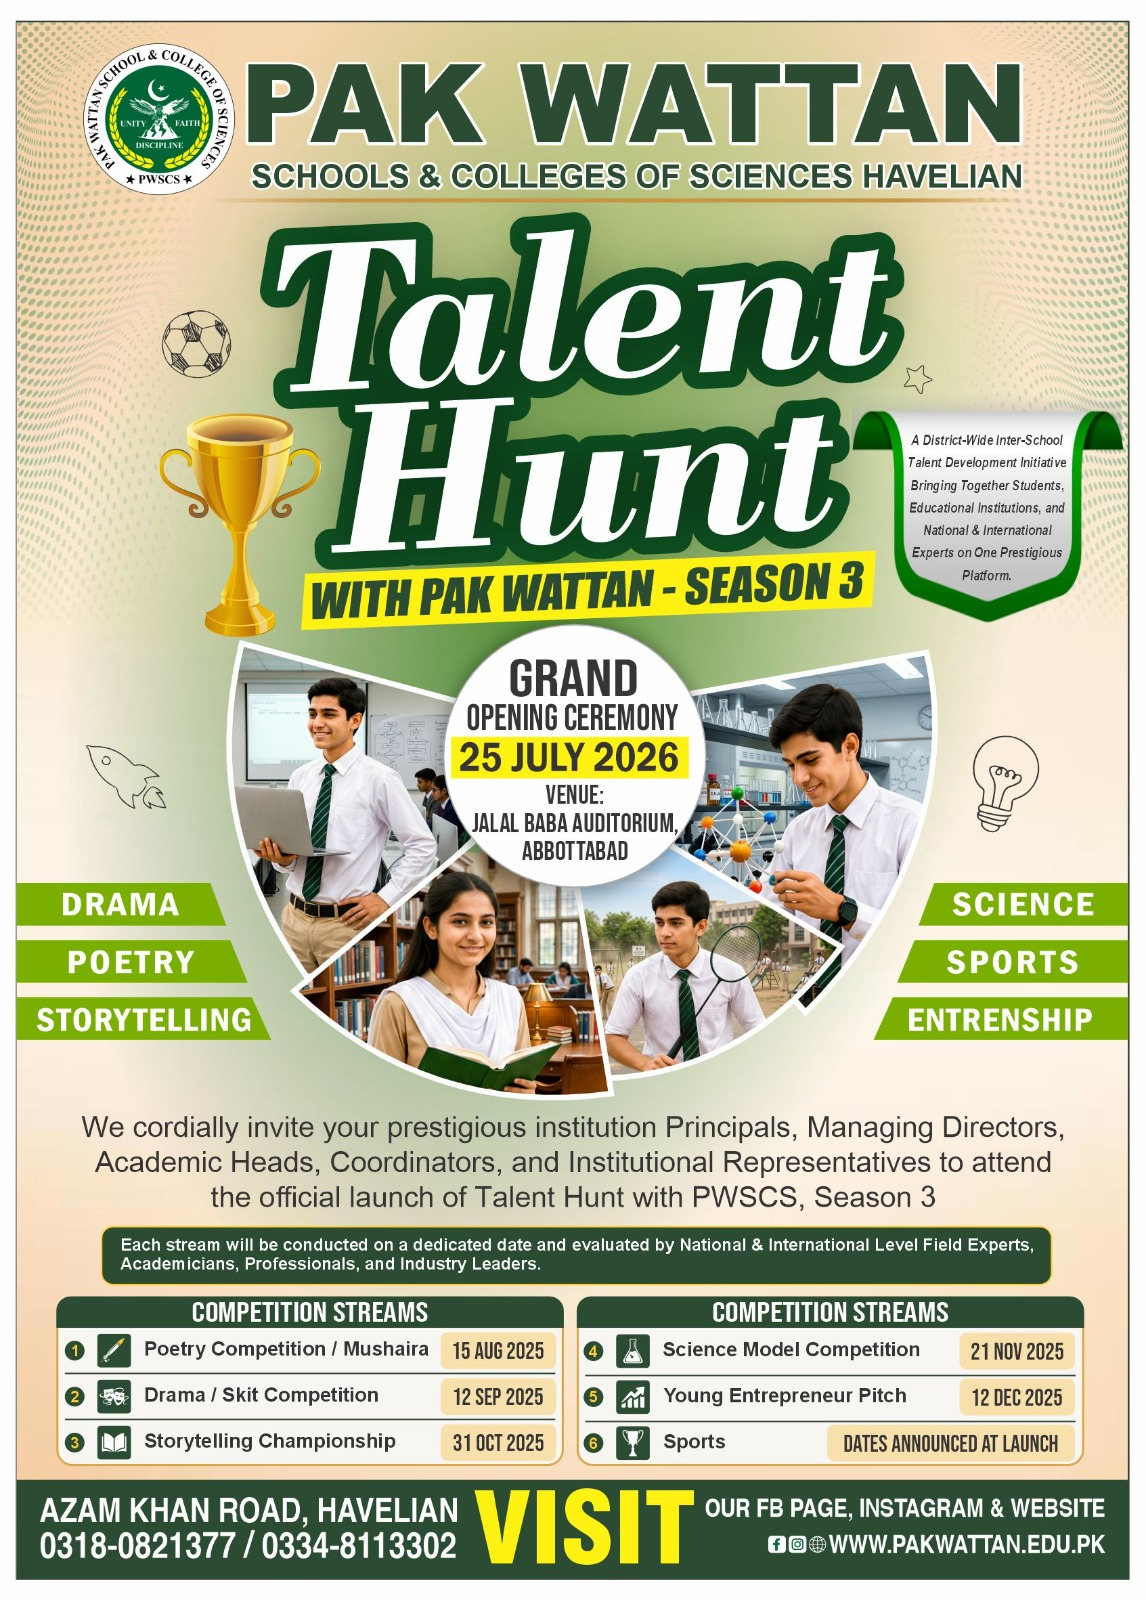
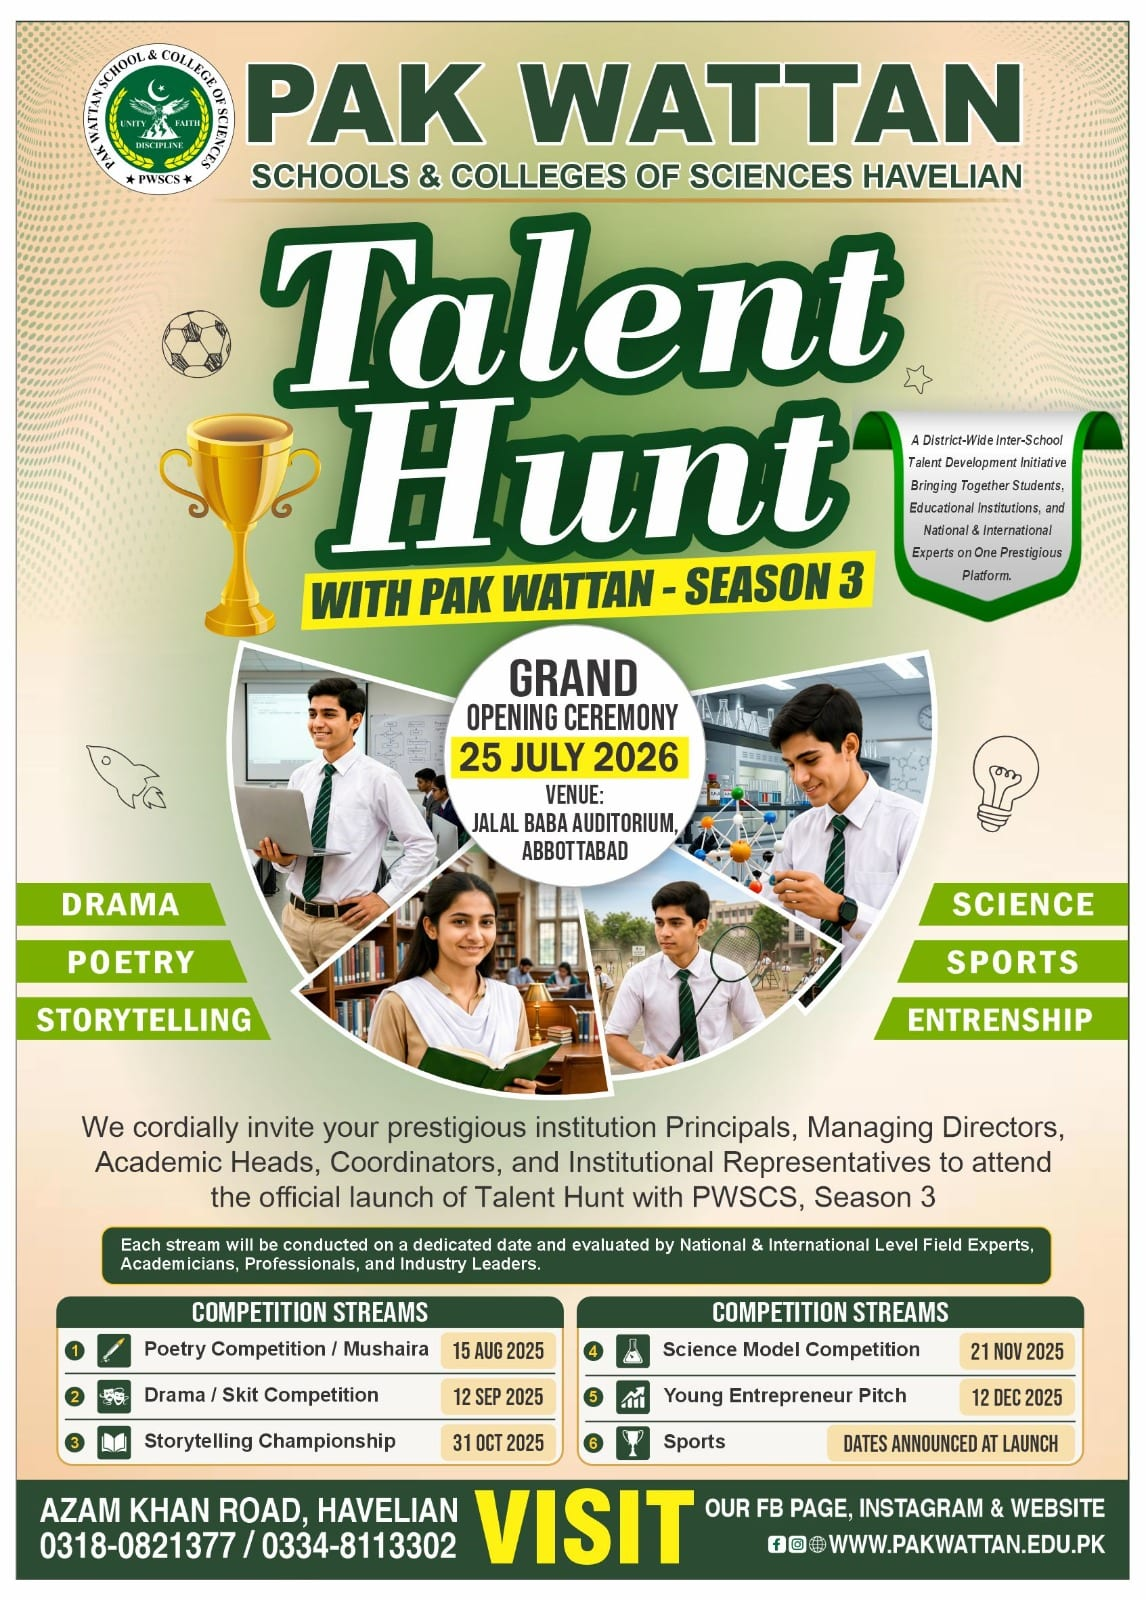
Optimize Talent Hunt Season 3 flyer: WebP primary and compressed JPEG fallback.

Changed region(s): [[0.1527, 0.0625, 0.1832, 0.0938]]

diff --git a/components/talent-hunt/TalentHuntSeason3Hub.tsx b/components/talent-hunt/TalentHuntSeason3Hub.tsx
@@ -46,8 +46,8 @@ export default function TalentHuntSeason3Hub() {
               width={TALENT_HUNT_SEASON3_FLYER.width}
               height={TALENT_HUNT_SEASON3_FLYER.height}
               className="w-full h-auto"
+              loading="lazy"
               sizes="(max-width: 1024px) 100vw, 480px"
-              priority
             />
           </Link>
         </div>

diff --git a/lib/talent-hunt-season3-data.ts b/lib/talent-hunt-season3-data.ts
@@ -1,7 +1,7 @@
 export const TALENT_HUNT_SEASON3_TAGLINE = 'DREAM • DARE • DEVELOP'
 
 export const TALENT_HUNT_SEASON3_FLYER = {
-  src: '/images/talent-hunt/Talenthunt3fliyer.jpeg',
+  src: '/images/talent-hunt/Talenthunt3fliyer.webp',
   width: 1146,
   height: 1600,
   alt: 'Talent Hunt Season 3 flyer — Grand Opening 25 July 2026, Jalal Baba Auditorium Abbottabad',
